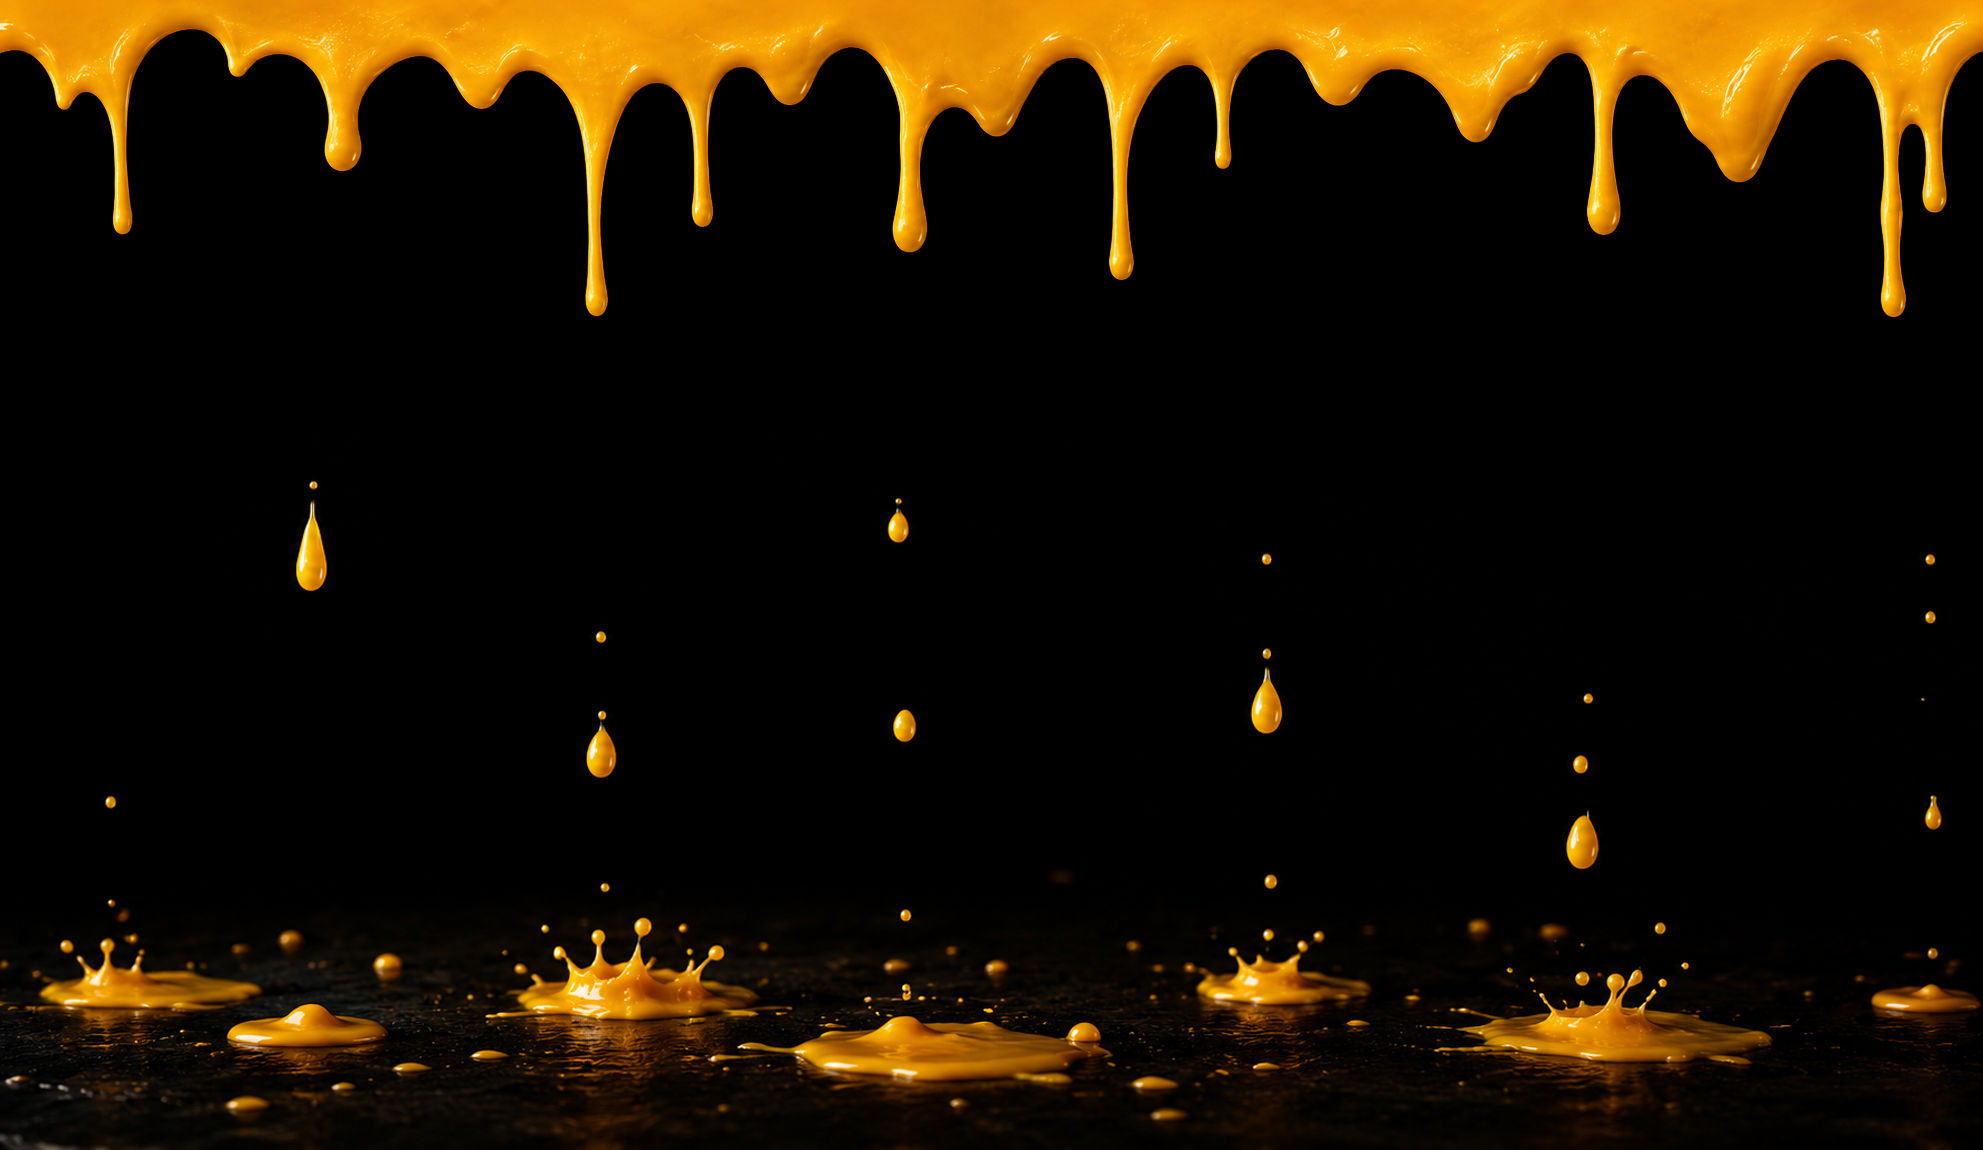
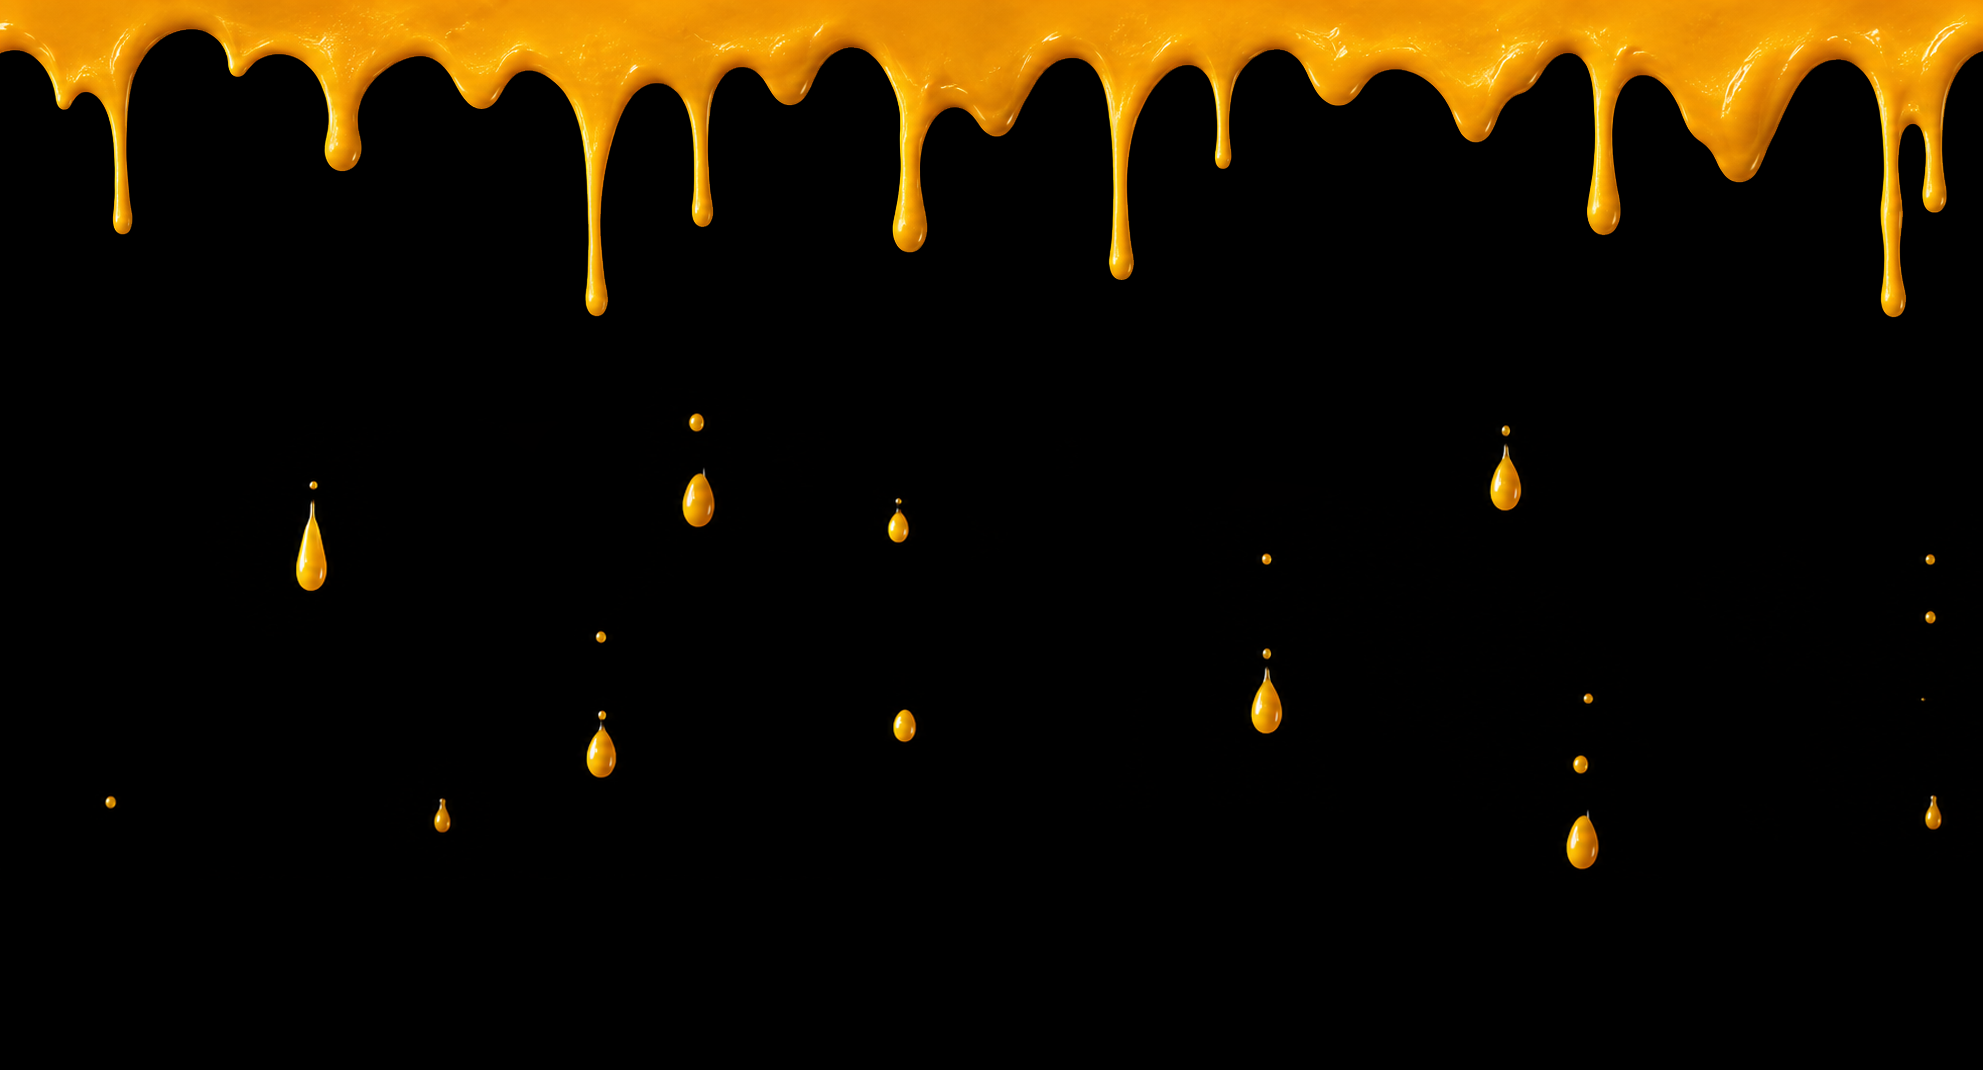
mejorado navbar

diff --git a/index.html b/index.html
@@ -10,6 +10,10 @@
                 rel="stylesheet" />
         <link href="https://fonts.googleapis.com/css2?family=Material+Symbols+Outlined:wght,FILL@100..700,0..1&amp;display=swap"
                 rel="stylesheet" />
+        <link rel="preconnect" href="https://fonts.googleapis.com">
+        <link rel="preconnect" href="https://fonts.gstatic.com" crossorigin>
+        <link href="https://fonts.googleapis.com/css2?family=Merriweather:ital,opsz,wght@0,18..144,300..900;1,18..144,300..900&display=swap"
+                rel="stylesheet">
         <script src="https://cdn.tailwindcss.com?plugins=forms,container-queries"></script>
         <link rel="icon" type="image/png" href="/andrez-logo-letters.png" />
         <link rel="stylesheet" href="/src/style.css" />
@@ -27,30 +31,34 @@
                         <!-- Desktop menu links (Capsule Design) -->
                         <div
                                 class="hidden md:flex items-center gap-1 bg-surface-container-high border border-surface-container-highest/20 px-6 py-2 rounded-full smooth-shadow">
-                                <a class="nav-link text-on-surface-variant hover:text-primary-container transition-colors font-label-sm text-label-sm uppercase tracking-widest px-4"
+                                <a class="nav-link text-white hover:text-primary-container transition-colors font-label-sm text-label-sm uppercase tracking-widest px-4"
                                         href="#menu">Menu</a>
-                                <a class="nav-link text-on-surface-variant hover:text-primary-container transition-colors font-label-sm text-label-sm uppercase tracking-widest px-4"
+                                <a class="nav-link text-white hover:text-primary-container transition-colors font-label-sm text-label-sm uppercase tracking-widest px-4"
                                         href="#about">About</a>
-                                <a class="nav-link text-on-surface-variant hover:text-primary-container transition-colors font-label-sm text-label-sm uppercase tracking-widest px-4"
+                                <a class="nav-link text-white hover:text-primary-container transition-colors font-label-sm text-label-sm uppercase tracking-widest px-4"
                                         href="#reviews">Reviews</a>
-                                <a class="nav-link text-on-surface-variant hover:text-primary-container transition-colors font-label-sm text-label-sm uppercase tracking-widest px-4"
+                                <a class="nav-link text-white hover:text-primary-container transition-colors font-label-sm text-label-sm uppercase tracking-widest px-4"
                                         href="#contact">Contact</a>
                         </div>
                         <!-- Desktop CTA -->
                         <div class="hidden md:block">
-                                <a class="bg-primary-container text-on-primary-container px-6 py-2 rounded-full font-label-sm text-label-sm hover:bg-primary transition-all duration-200 hover:scale-105 active:scale-95 uppercase tracking-widest font-bold shadow-[0_4px_14px_rgba(255,186,32,0.2)] border-2 border-black"
-                                        href="#">
+                                <a class="bg-primary-container text-black px-6 py-2 rounded-full font-label-sm text-label-sm hover:bg-primary transition-all duration-200 hover:scale-105 active:scale-95 uppercase tracking-widest font-bold shadow-[0_4px_14px_rgba(255,186,32,0.2)] border-2 border-black flex items-center gap-2"
+                                        href="https://wolt.com/en/isl/reykjavik/restaurant/andrezrvk">
+                                        <svg xmlns="http://www.w3.org/2000/svg" viewBox="60 95 150 110" width="22" height="16"><path d="M 75 110 L 105 190 L 135 110 L 165 190 L 195 110" fill="none" stroke="#00C2E8" stroke-width="24" stroke-linecap="round" stroke-linejoin="round"/></svg>
                                         Order on Wolt
                                 </a>
                         </div>
                         <!-- Mobile Hamburger Button -->
                         <button id="mobile-menu-btn"
-                                class="md:hidden text-on-background focus:outline-none p-2 flex items-center justify-center relative z-[60]">
+                                class="md:hidden text-on-background focus:outline-none flex items-start justify-end fixed top-0 right-0 z-[60] bg-black w-20 h-20 pt-3 pr-3 transition-opacity duration-300"
+                                style="clip-path: polygon(0 0, 100% 0, 100% 100%);">
                                 <span class="material-symbols-outlined text-3xl" id="hamburger-icon">menu</span>
                         </button>
                 </div>
                 <!-- Mobile Sidebar Overlay -->
-                <div id="mobile-sidebar-overlay" class="md:hidden fixed inset-0 bg-black/60 z-40 opacity-0 pointer-events-none transition-opacity duration-300"></div>
+                <div id="mobile-sidebar-overlay"
+                        class="md:hidden fixed inset-0 bg-black/60 z-40 opacity-0 pointer-events-none transition-opacity duration-300">
+                </div>
 
                 <!-- Mobile Sidebar Menu -->
                 <div id="mobile-sidebar"
@@ -63,8 +71,9 @@
                                 href="#reviews">Reviews</a>
                         <a class="text-on-surface hover:text-primary-container pl-3 py-2 font-label-sm text-label-sm transition-colors duration-200 uppercase tracking-widest border-b border-surface-container-high/50"
                                 href="#contact">Contact</a>
-                        <a class="bg-primary-container text-on-primary-container text-center py-3.5 rounded-full font-label-sm text-label-sm hover:bg-primary transition-all duration-200 uppercase tracking-widest font-bold mt-4 shadow-[0_4px_14px_rgba(255,186,32,0.2)] border-2 border-black"
-                                href="#">
+                        <a class="bg-primary-container text-black text-center py-3.5 rounded-full font-label-sm text-label-sm hover:bg-primary transition-all duration-200 uppercase tracking-widest font-bold mt-4 border-2 border-black flex items-center justify-center gap-2"
+                                href="https://wolt.com/en/isl/reykjavik/restaurant/andrezrvk">
+                                <svg xmlns="http://www.w3.org/2000/svg" viewBox="60 95 150 110" width="22" height="16"><path d="M 75 110 L 105 190 L 135 110 L 165 190 L 195 110" fill="none" stroke="#00C2E8" stroke-width="24" stroke-linecap="round" stroke-linejoin="round"/></svg>
                                 Order on Wolt
                         </a>
                 </div>
@@ -72,11 +81,12 @@
         <main class="pt-0">
                 <!-- Hero Section -->
                 <section
-                        class="relative w-full min-h-[72vh] lg:min-h-[76vh] flex items-start justify-center overflow-hidden bg-[#0e0e0e] pt-24 pb-16 md:pb-20 lg:pt-28 lg:pb-24">
+                        class="relative w-full min-h-screen flex items-center justify-center overflow-hidden bg-[#0e0e0e] pt-24 pb-16 md:pb-20 lg:pt-28 lg:pb-24">
 
                         <!-- Background Cheese Drip Graphic -->
                         <div class="absolute inset-0 w-full h-full pointer-events-none z-0">
-                                <img src="/cheese-drip.png" alt="Hero Background" class="w-full h-full object-cover object-top" />
+                                <img src="/cheese-drip.png" alt="Hero Background"
+                                        class="w-full h-full object-cover object-top" />
                         </div>
 
                         <div
@@ -92,26 +102,26 @@
                                         <!-- Left Column (Hero Text Content - Left Aligned) -->
                                         <div
                                                 class="lg:col-span-7 flex flex-col items-start text-left space-y-6 z-20 reveal">
-                                                <h1
-                                                        class="font-display-lg text-[40px] leading-[48px] md:text-[64px] md:leading-[72px] text-on-background max-w-2xl">
-                                                        Fresh French Tacos &amp; Crepes in Reykjavík
+                                                <h1 class="text-[40px] leading-[56px] md:text-[64px] md:leading-[84px] text-on-background max-w-2xl"
+                                                        style="font-family: 'Merriweather', serif;">
+                                                        <span class="bg-black px-3 py-1"
+                                                                style="box-decoration-break: clone; -webkit-box-decoration-break: clone;">Fresh
+                                                                French Tacos &amp; Crepes in Reykjavík</span>
                                                 </h1>
-                                                <p
-                                                        class="font-body-md text-body-md md:text-lg text-on-surface-variant max-w-xl leading-relaxed">
-                                                        Generous portions, friendly service, and freshly toasted French
-                                                        Tacos — toasted to perfection with meat, golden fries, and our
-                                                        signature cheesy sauce inside, alongside delicious sweet and
-                                                        savory crepes.
-                                                </p>
-                                                
+
                                                 <!-- Action Buttons -->
-                                                <div class="flex flex-col sm:flex-row items-center gap-4 pt-4 w-full sm:w-auto">
-                                                        <a class="w-full sm:w-auto text-center bg-primary-container text-on-primary-container px-10 py-3.5 rounded-full font-label-sm hover:bg-primary transition-all duration-200 hover:scale-105 active:scale-95 uppercase tracking-widest font-bold shadow-[0_4px_14px_rgba(255,186,32,0.3)] border-2 border-black"
-                                                                href="#menu">
+                                                <div
+                                                        class="flex flex-col sm:flex-row items-center gap-4 pt-4 w-full sm:w-auto">
+                                                        <a class="w-full sm:w-auto text-center bg-primary-container text-black px-10 py-3.5 rounded-full font-label-sm hover:bg-primary transition-all duration-200 hover:scale-105 active:scale-95 uppercase tracking-widest font-bold border-2 border-black flex items-center justify-center gap-2"
+                                                                href="https://store.salescloud.is/?uuid=41ba87fe-6b92-4654-ba90-571a973f282b">
+                                                                <span
+                                                                        class="material-symbols-outlined text-[20px]">restaurant</span>
                                                                 View Menu
                                                         </a>
-                                                        <a class="w-full sm:w-auto text-center border-2 border-primary-container text-primary-container px-10 py-3.5 rounded-full font-label-sm hover:bg-primary-container/10 transition-all duration-200 hover:scale-105 active:scale-95 uppercase tracking-widest font-bold"
-                                                                href="#contact">
+                                                        <a class="w-full sm:w-auto text-center bg-black text-white border-2 border-white px-10 py-3.5 rounded-full font-label-sm hover:bg-black transition-all duration-200 hover:scale-105 active:scale-95 uppercase tracking-widest font-bold flex items-center justify-center gap-2"
+                                                                href="https://www.google.com/maps/dir/?api=1&destination=101+Reykjav%C3%ADk">
+                                                                <span
+                                                                        class="material-symbols-outlined text-[20px]">location_on</span>
                                                                 Find Us
                                                         </a>
                                                 </div>
@@ -143,33 +153,10 @@
                         </div>
                 </section>
                 <!-- About Section -->
-                <section class="py-section-gap px-margin-mobile md:px-margin-desktop bg-background border-b border-surface-container reveal"
-                        id="about">
-                        <div class="max-w-7xl mx-auto grid grid-cols-1 md:grid-cols-2 gap-gutter items-center">
-                                <div class="space-y-base">
-                                        <h2
-                                                class="font-headline-lg-mobile md:font-headline-lg text-headline-lg-mobile md:text-headline-lg text-primary-container">
-                                                Freshly Made in Borgartún</h2>
-                                        <p class="font-body-md text-body-md text-on-surface-variant">
-                                                At Andrez, we believe in the simple joy of a well-prepared meal. Located
-                                                in the bustling heart of Borgartún, our neighborhood kitchen is
-                                                dedicated to serving up generous, comforting dishes that make you feel
-                                                right at home.
-                                        </p>
-                                        <p class="font-body-md text-body-md text-on-surface-variant">Whether you're
-                                                craving one of our signature sweet or savory crepes, digging into our
-                                                authentic French Tacos — a unique toasted delight filled with meat,
-                                                fries, and our signature cheesy sauce, distinctly different from Mexican
-                                                tacos — or just looking for a friendly spot to grab lunch, we're here to
-                                                deliver quality food with a warm smile.</p>
-                                </div>
-                                <div
-                                        class="rounded-lg overflow-hidden h-[400px] smooth-shadow border border-surface-container">
-                                        <img alt="Andrez Interior"
-                                                class="w-full h-full object-cover opacity-80 transition-all duration-500 hover:scale-105"
-                                                data-alt="A warm, inviting interior shot of a casual dining restaurant."
-                                                src="https://lh3.googleusercontent.com/aida-public/AB6AXuD3FY1uY-n6L7lbEqdVmIs10ttEHDjw0N1zZ-2DqCG-MZdQWCrvoezUgncJ_7clWqYn9tDKcTF6yXxEIpg19W0UmqBBKDe-I9VGvInYdtJW8nGf6pZPGgL5UGu57FzfmhZFBNuqtrzz8I3EKC3Vfy1-eGKsRNjVW_eKs2xuqMEHbJBTmLG0B-c0xBb9E_j5CuvGoU-FSVsJFgKV8IYrv1X2Nj3DYEJnAAMpmPKxFcbhmSh3iptaqhYQcGhb7PohntnL1MpXrqk_7TlC" />
-                                </div>
+                <section class="relative py-28 md:py-44 overflow-hidden" id="about">
+                        <!-- Wood Background -->
+                        <div class="absolute inset-0 w-full h-full z-0 pointer-events-none">
+                                <img src="/madera.png" alt="Wood background" class="w-full h-full object-cover" />
                         </div>
                 </section>
                 <!-- Popular Items (Bento Grid) -->

diff --git a/src/style.css b/src/style.css
@@ -14,6 +14,14 @@
         -webkit-font-smoothing: antialiased;
 }
 
+#mobile-menu-btn.menu-open {
+        clip-path: none !important;
+        background: transparent !important;
+        width: auto;
+        height: auto;
+        padding: 0.75rem;
+}
+
 .smooth-shadow {
         box-shadow: 0 4px 20px -2px rgba(0, 0, 0, 0.5);
 }
@@ -120,19 +128,11 @@
         animation: float 5s ease-in-out infinite;
 }
 
-/* Transparent navbar scroll effect */
-nav.scrolled {
-        background-color: rgba(19, 19, 19, 0.9) !important;
-        backdrop-filter: blur(12px) !important;
-        border-bottom: 1px solid rgba(255, 186, 32, 0.1) !important;
-        box-shadow: 0 10px 15px -3px rgba(0, 0, 0, 0.3) !important;
-}
-
 /* Tilted Stacked Photo Placeholders */
 .photo-stack {
         position: relative;
         width: 100%;
-        height: 280px;
+        height: 360px;
         display: flex;
         justify-content: center;
         align-items: center;
@@ -140,26 +140,24 @@ nav.scrolled {
 
 @media (min-width: 1024px) {
         .photo-stack {
-                height: 400px;
+                height: 520px;
         }
 }
 
 .photo-card {
         position: absolute;
-        width: 190px;
-        height: 142px;
+        width: 260px;
+        height: 195px;
         border-radius: 16px;
         overflow: hidden;
-        border: 4px solid #2a2a2a;
         box-shadow: 0 20px 40px rgba(0, 0, 0, 0.6);
-        transition: transform 0.4s cubic-bezier(0.175, 0.885, 0.32, 1.275), border-color 0.3s, z-index 0.1s;
+        transition: transform 0.4s cubic-bezier(0.175, 0.885, 0.32, 1.275), z-index 0.1s;
 }
 
 @media (min-width: 768px) {
         .photo-card {
-                width: 300px;
-                height: 225px;
-                border-width: 5px;
+                width: 400px;
+                height: 300px;
         }
 }
 
@@ -170,7 +168,6 @@ nav.scrolled {
 }
 
 .photo-card:hover {
-        border-color: #ffba20;
         z-index: 30 !important;
         transform: scale(1.15) rotate(0deg) !important;
 }

diff --git a/src/main.js b/src/main.js
@@ -180,28 +180,9 @@ function initMobileMenu() {
         });
 }
 
-// Transparent navbar scroll glassmorphism
-function initNavbarScroll() {
-        const nav = document.querySelector('nav');
-        if (!nav) return;
-
-        function handleScroll() {
-                if (window.scrollY > 50) {
-                        nav.classList.add('scrolled');
-                } else {
-                        nav.classList.remove('scrolled');
-                }
-        }
-
-        window.addEventListener('scroll', handleScroll);
-        // Call once on init to handle reload in scrolled position
-        handleScroll();
-}
-
 function init() {
         initObserver();
         initMobileMenu();
-        initNavbarScroll();
 }
 
 if (document.readyState === 'loading') {